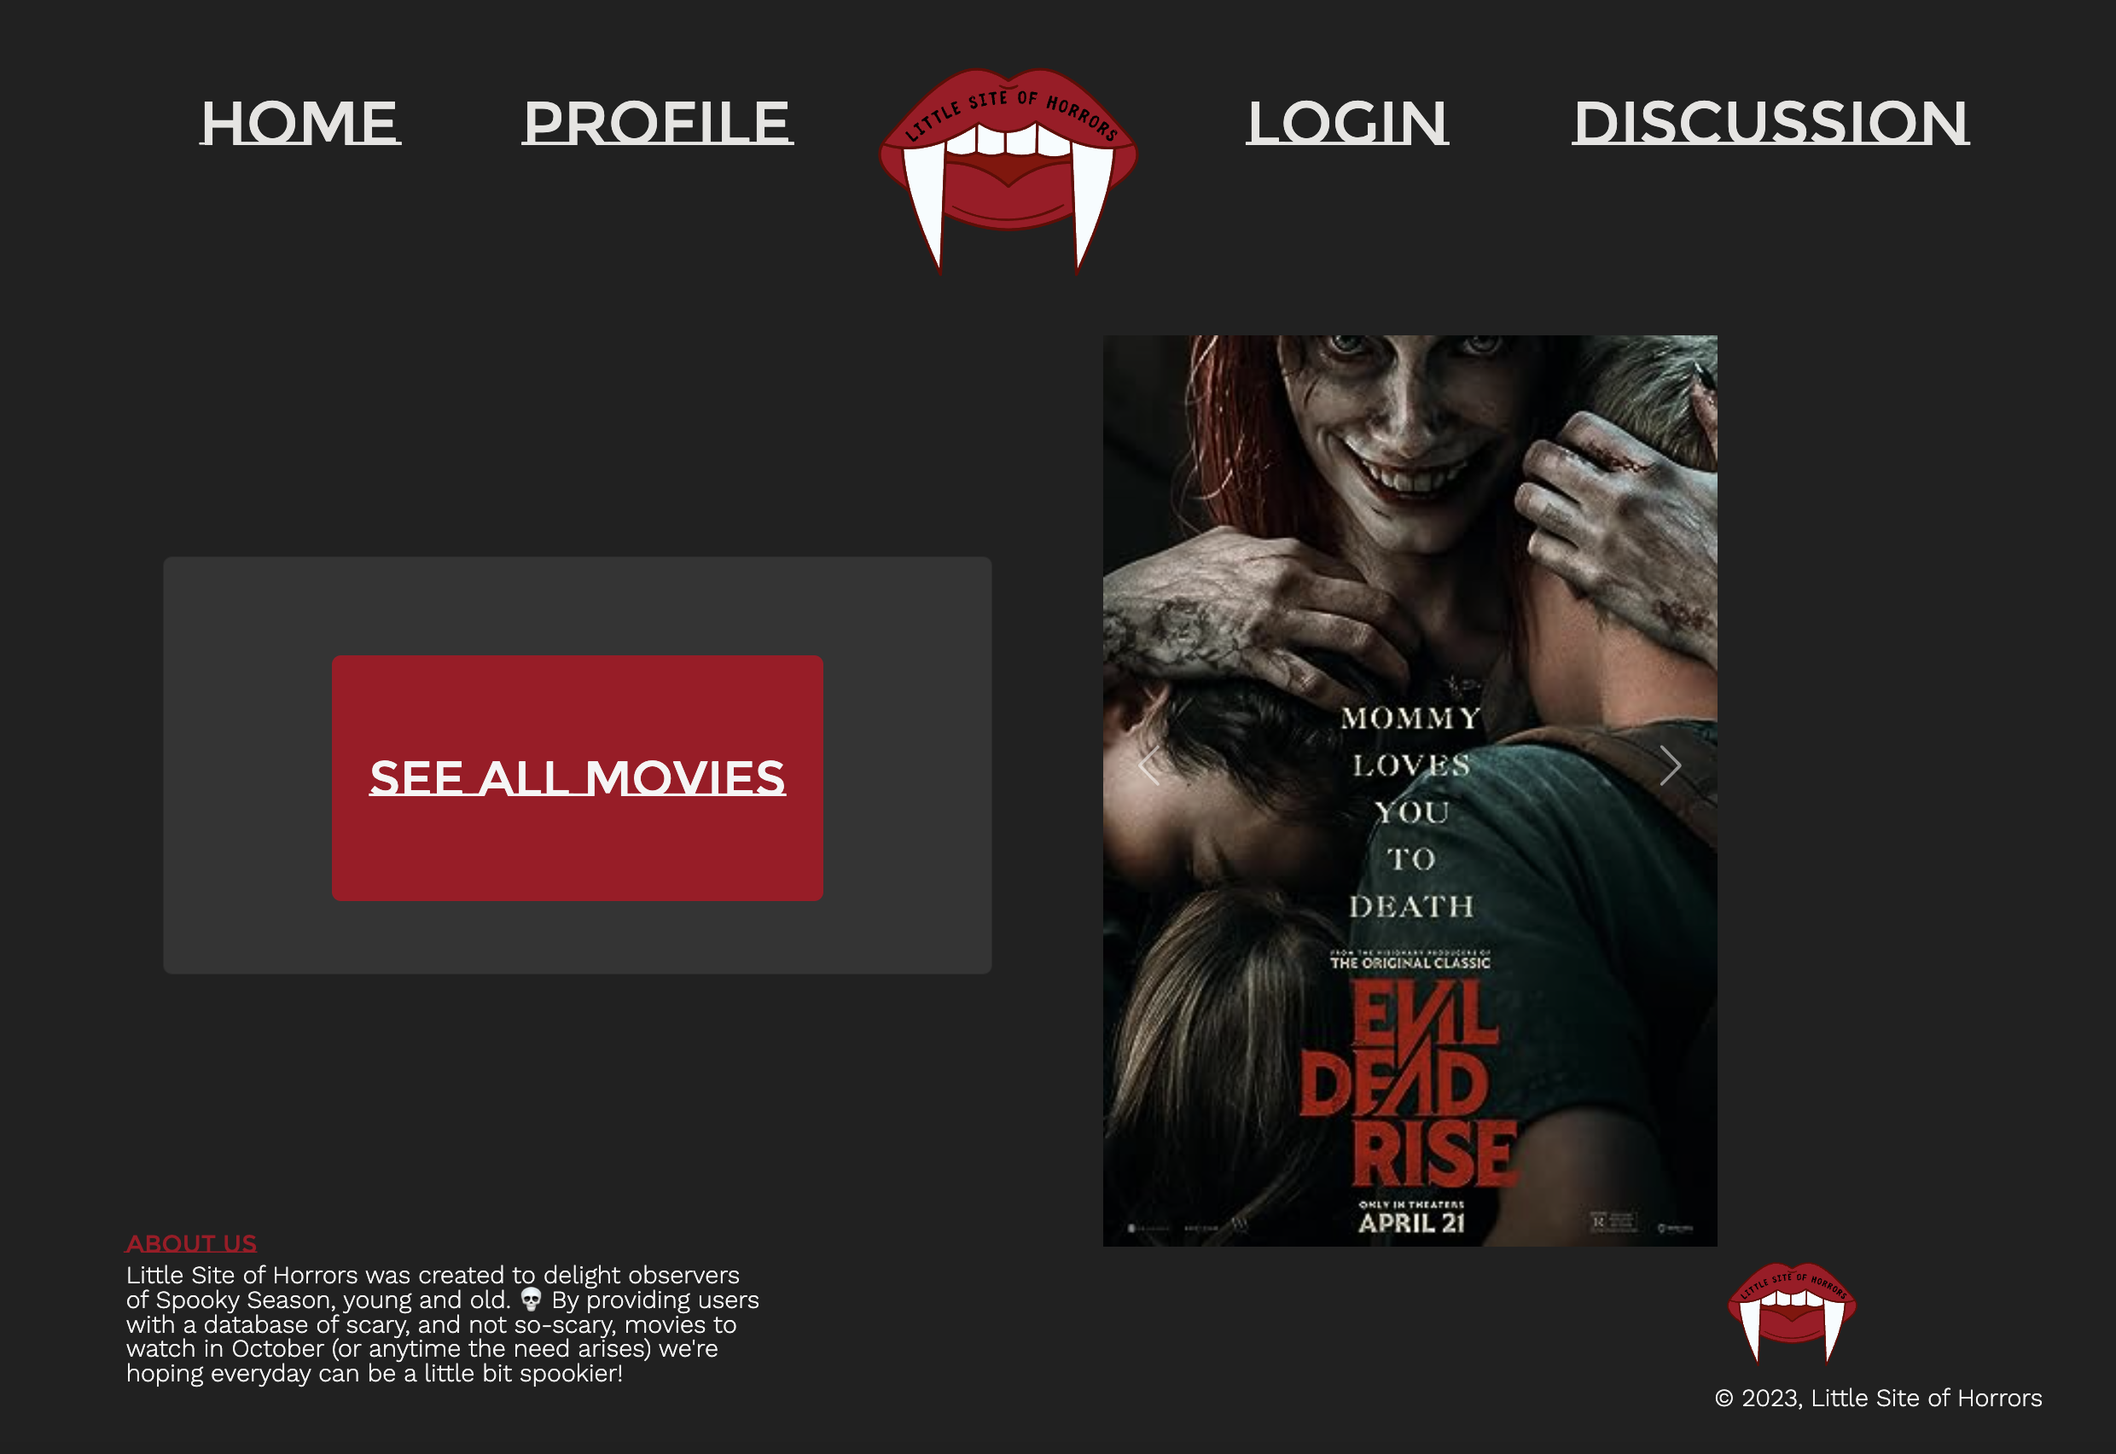
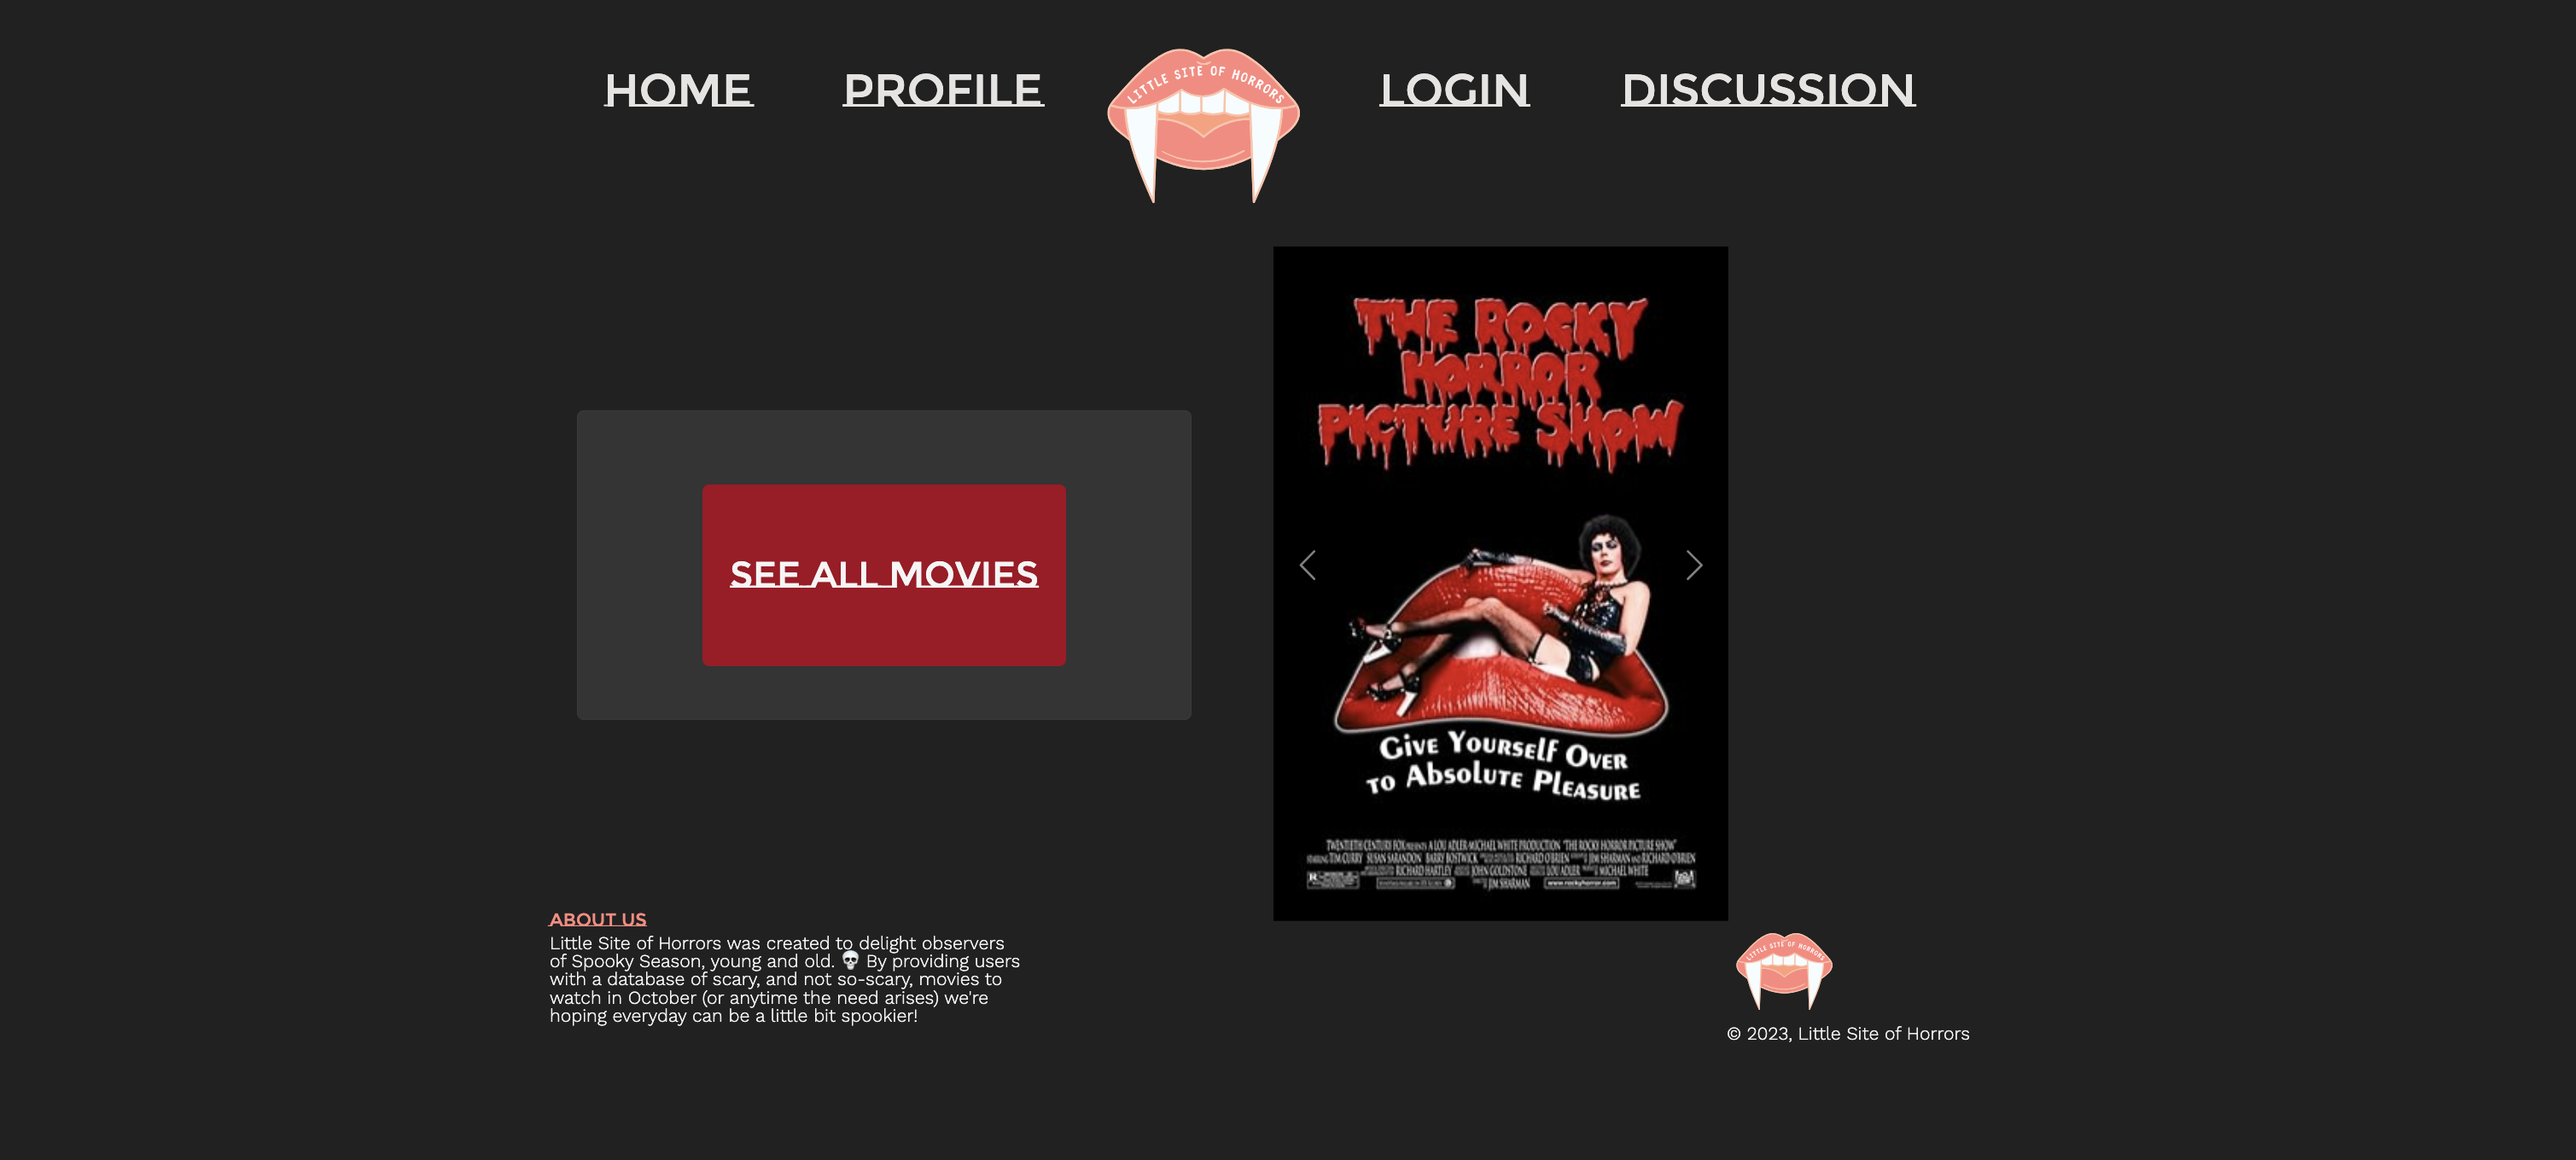
resized carousel images

diff --git a/react-portfolio/src/components/Portfolio.jsx b/react-portfolio/src/components/Portfolio.jsx
@@ -16,21 +16,21 @@ function WorkCarousel() {
 
     <Carousel className='position-absolute top-50 start-50 translate-middle carouselSize work'>
       <Carousel.Item>
-        <img src={littleSiteofHorrors} alt="Little Site of Horrors" className='img-fluid work' />
+        <img src={littleSiteofHorrors} alt="Little Site of Horrors" className='img-fluid portfolio' />
         <Carousel.Caption>
           <h3>Little Site of Horrors</h3>
           <p>Nulla vitae elit libero, a pharetra augue mollis interdum.</p>
         </Carousel.Caption>
       </Carousel.Item>
       <Carousel.Item>
-        <img src={gameSeekers} alt="Game Seekers" className ='img-fluid work' />
+        <img src={gameSeekers} alt="Game Seekers" className ='img-fluid portfolio' />
         <Carousel.Caption>
           <h3>Game Seekers</h3>
           <p>Lorem ipsum dolor sit amet, consectetur adipiscing elit.</p>
         </Carousel.Caption>
       </Carousel.Item>
       <Carousel.Item>
-        <img src={austynCody} alt="Austyn Cody Website" className='img-fluid work' />
+        <img src={austynCody} alt="Austyn Cody Website" className='img-fluid portfolio' />
         <Carousel.Caption>
           <h3>Third slide label</h3>
           <p>
@@ -39,7 +39,7 @@ function WorkCarousel() {
         </Carousel.Caption>
       </Carousel.Item>
       <Carousel.Item>
-        <img src={javaQuiz} alt="text" className='img-fluid work'/>
+        <img src={javaQuiz} alt="text" className='img-fluid portfolio'/>
         <Carousel.Caption>
           <h3>Third slide label</h3>
           <p>
@@ -48,7 +48,7 @@ function WorkCarousel() {
         </Carousel.Caption>
       </Carousel.Item>
       <Carousel.Item>
-        <img src={weatherDash} alt="Website" className='img-fluid work' />
+        <img src={weatherDash} alt="Website" className='img-fluid portfolio' />
         <Carousel.Caption>
           <h3>Third slide label</h3>
           <p>
@@ -57,7 +57,7 @@ function WorkCarousel() {
         </Carousel.Caption>
       </Carousel.Item>
       <Carousel.Item>
-        <img src={workDaySched} alt="Website" className='img-fluid work'/>
+        <img src={workDaySched} alt="Website" className='img-fluid portfolio'/>
         <Carousel.Caption>
           <h3>Third slide label</h3>
           <p>

diff --git a/react-portfolio/src/App.css b/react-portfolio/src/App.css
@@ -69,9 +69,15 @@ margin-left: 10rem;
 
 .carouselSize {
     width: 50rem;
-    height: 5rem;
+    height: 30rem;
+    align-self: center;
     
    
+}
+
+img.portfolio {
+    width: 50 rem;
+    height: 30rem;
 }
 
 
